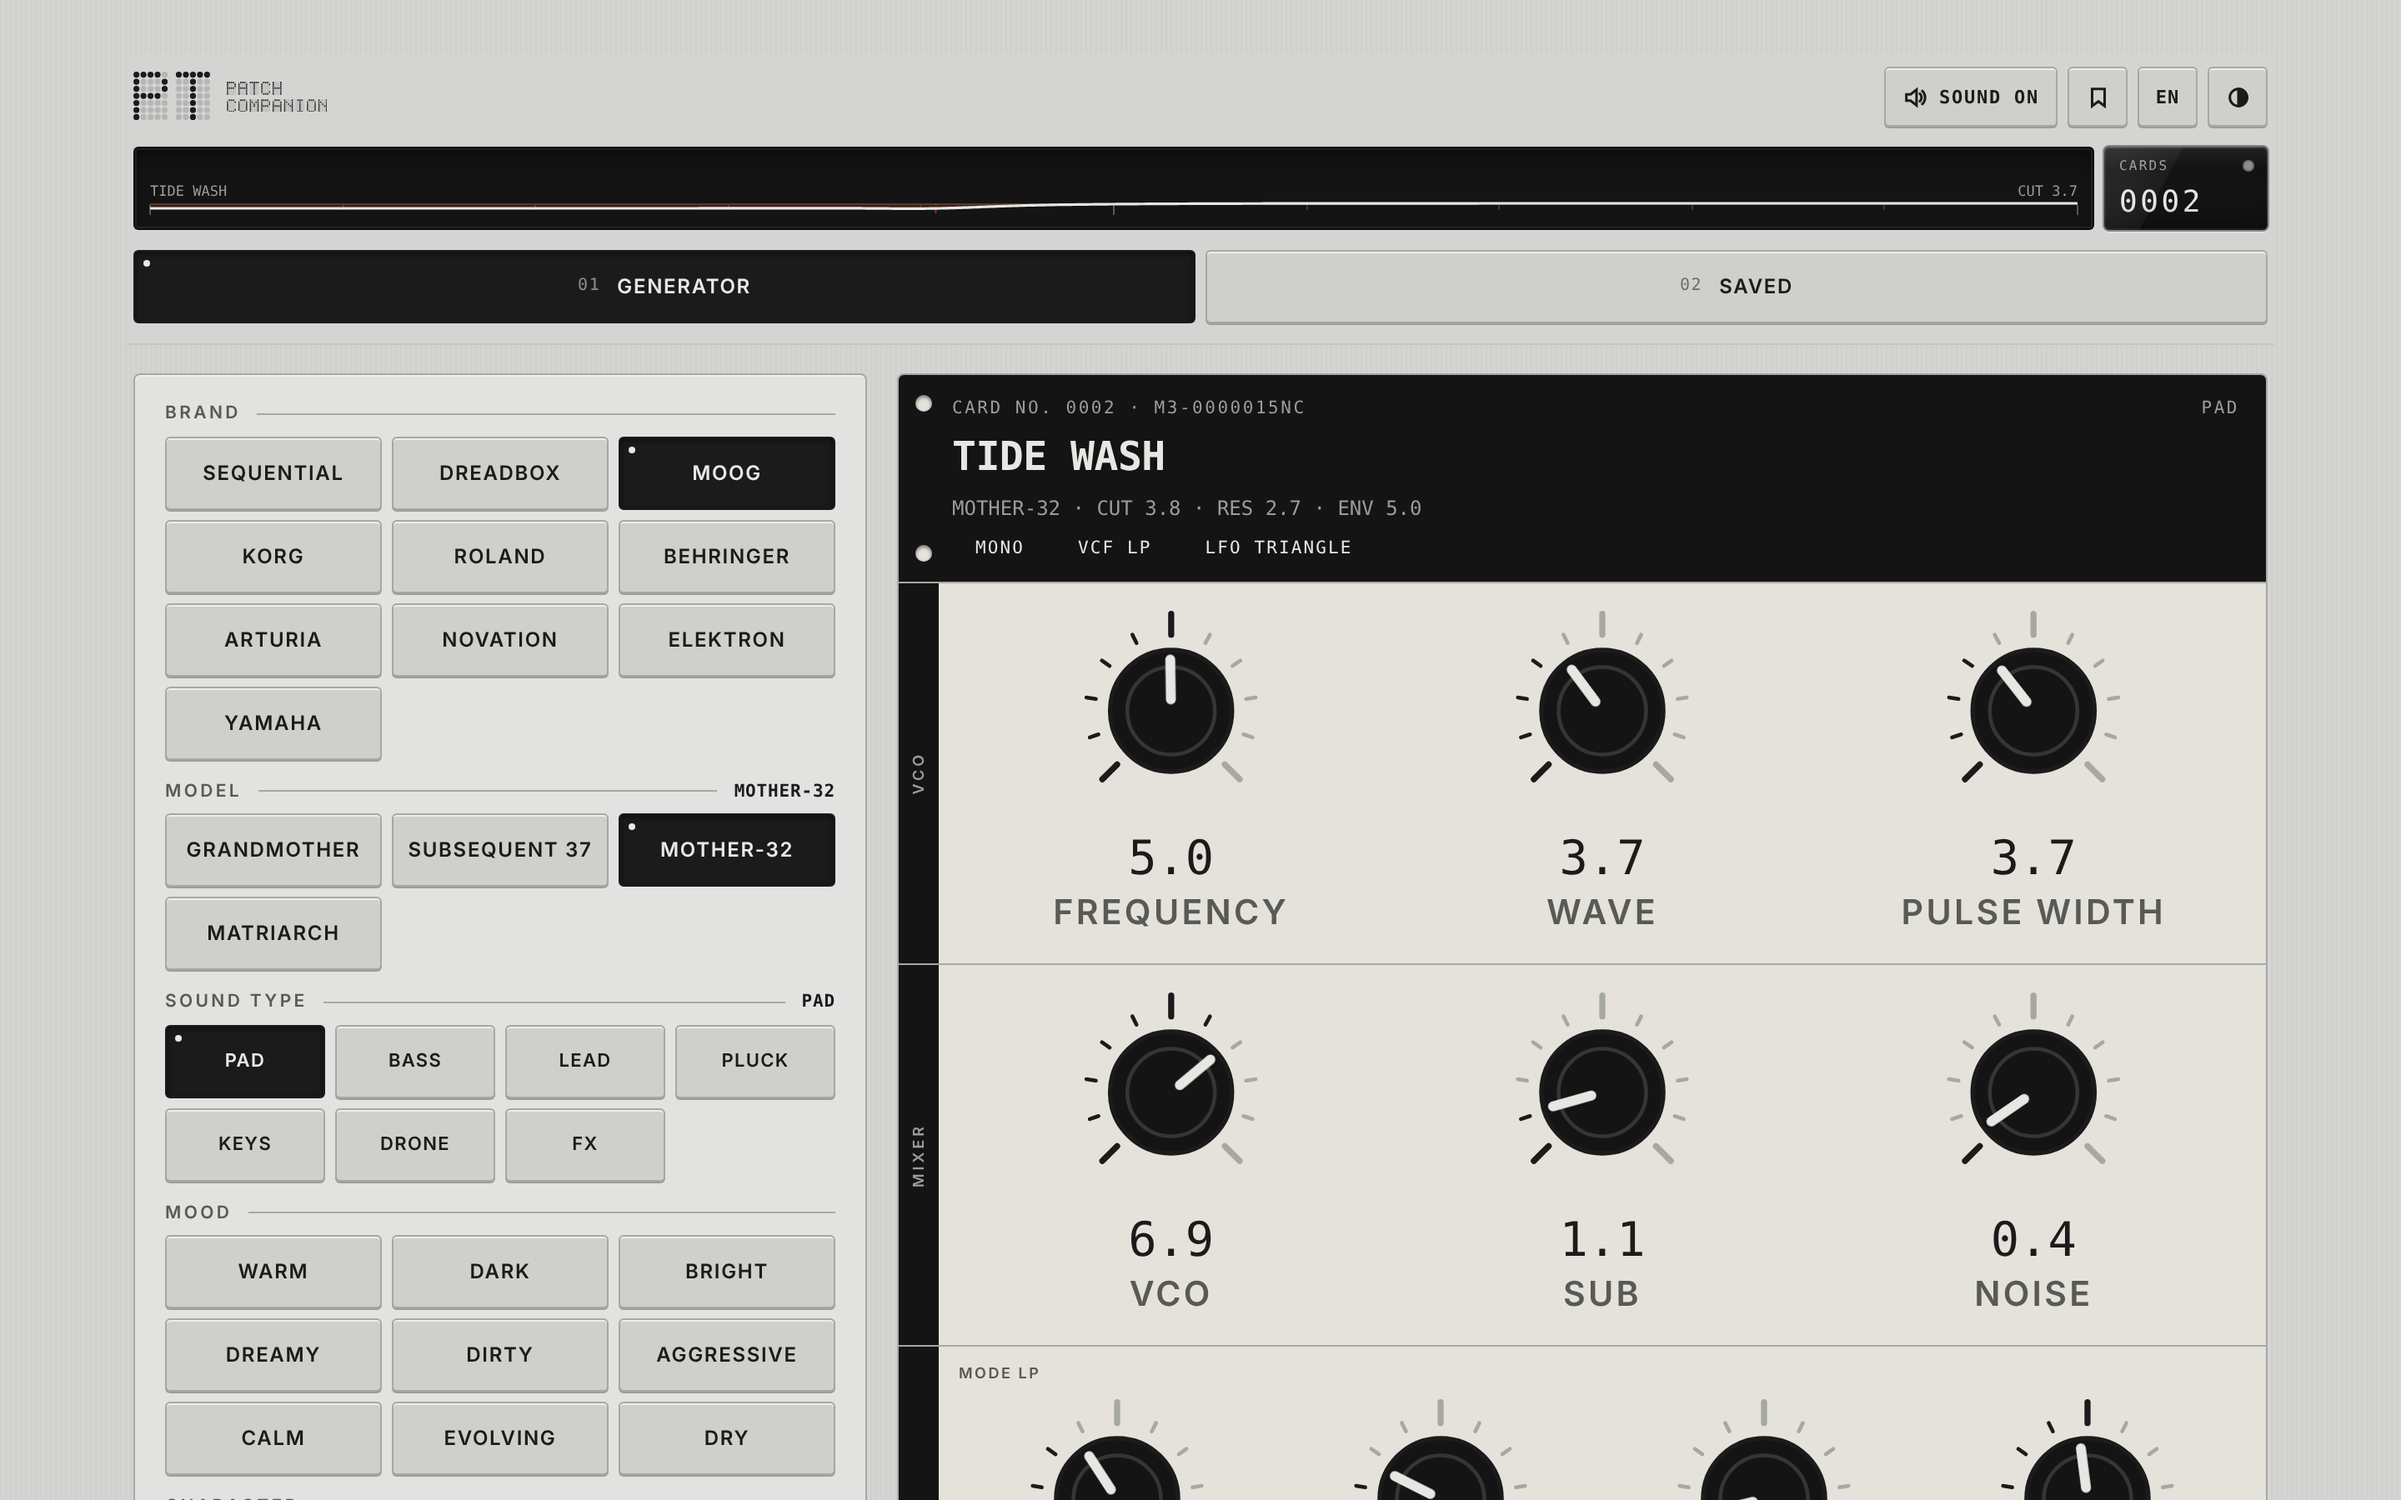
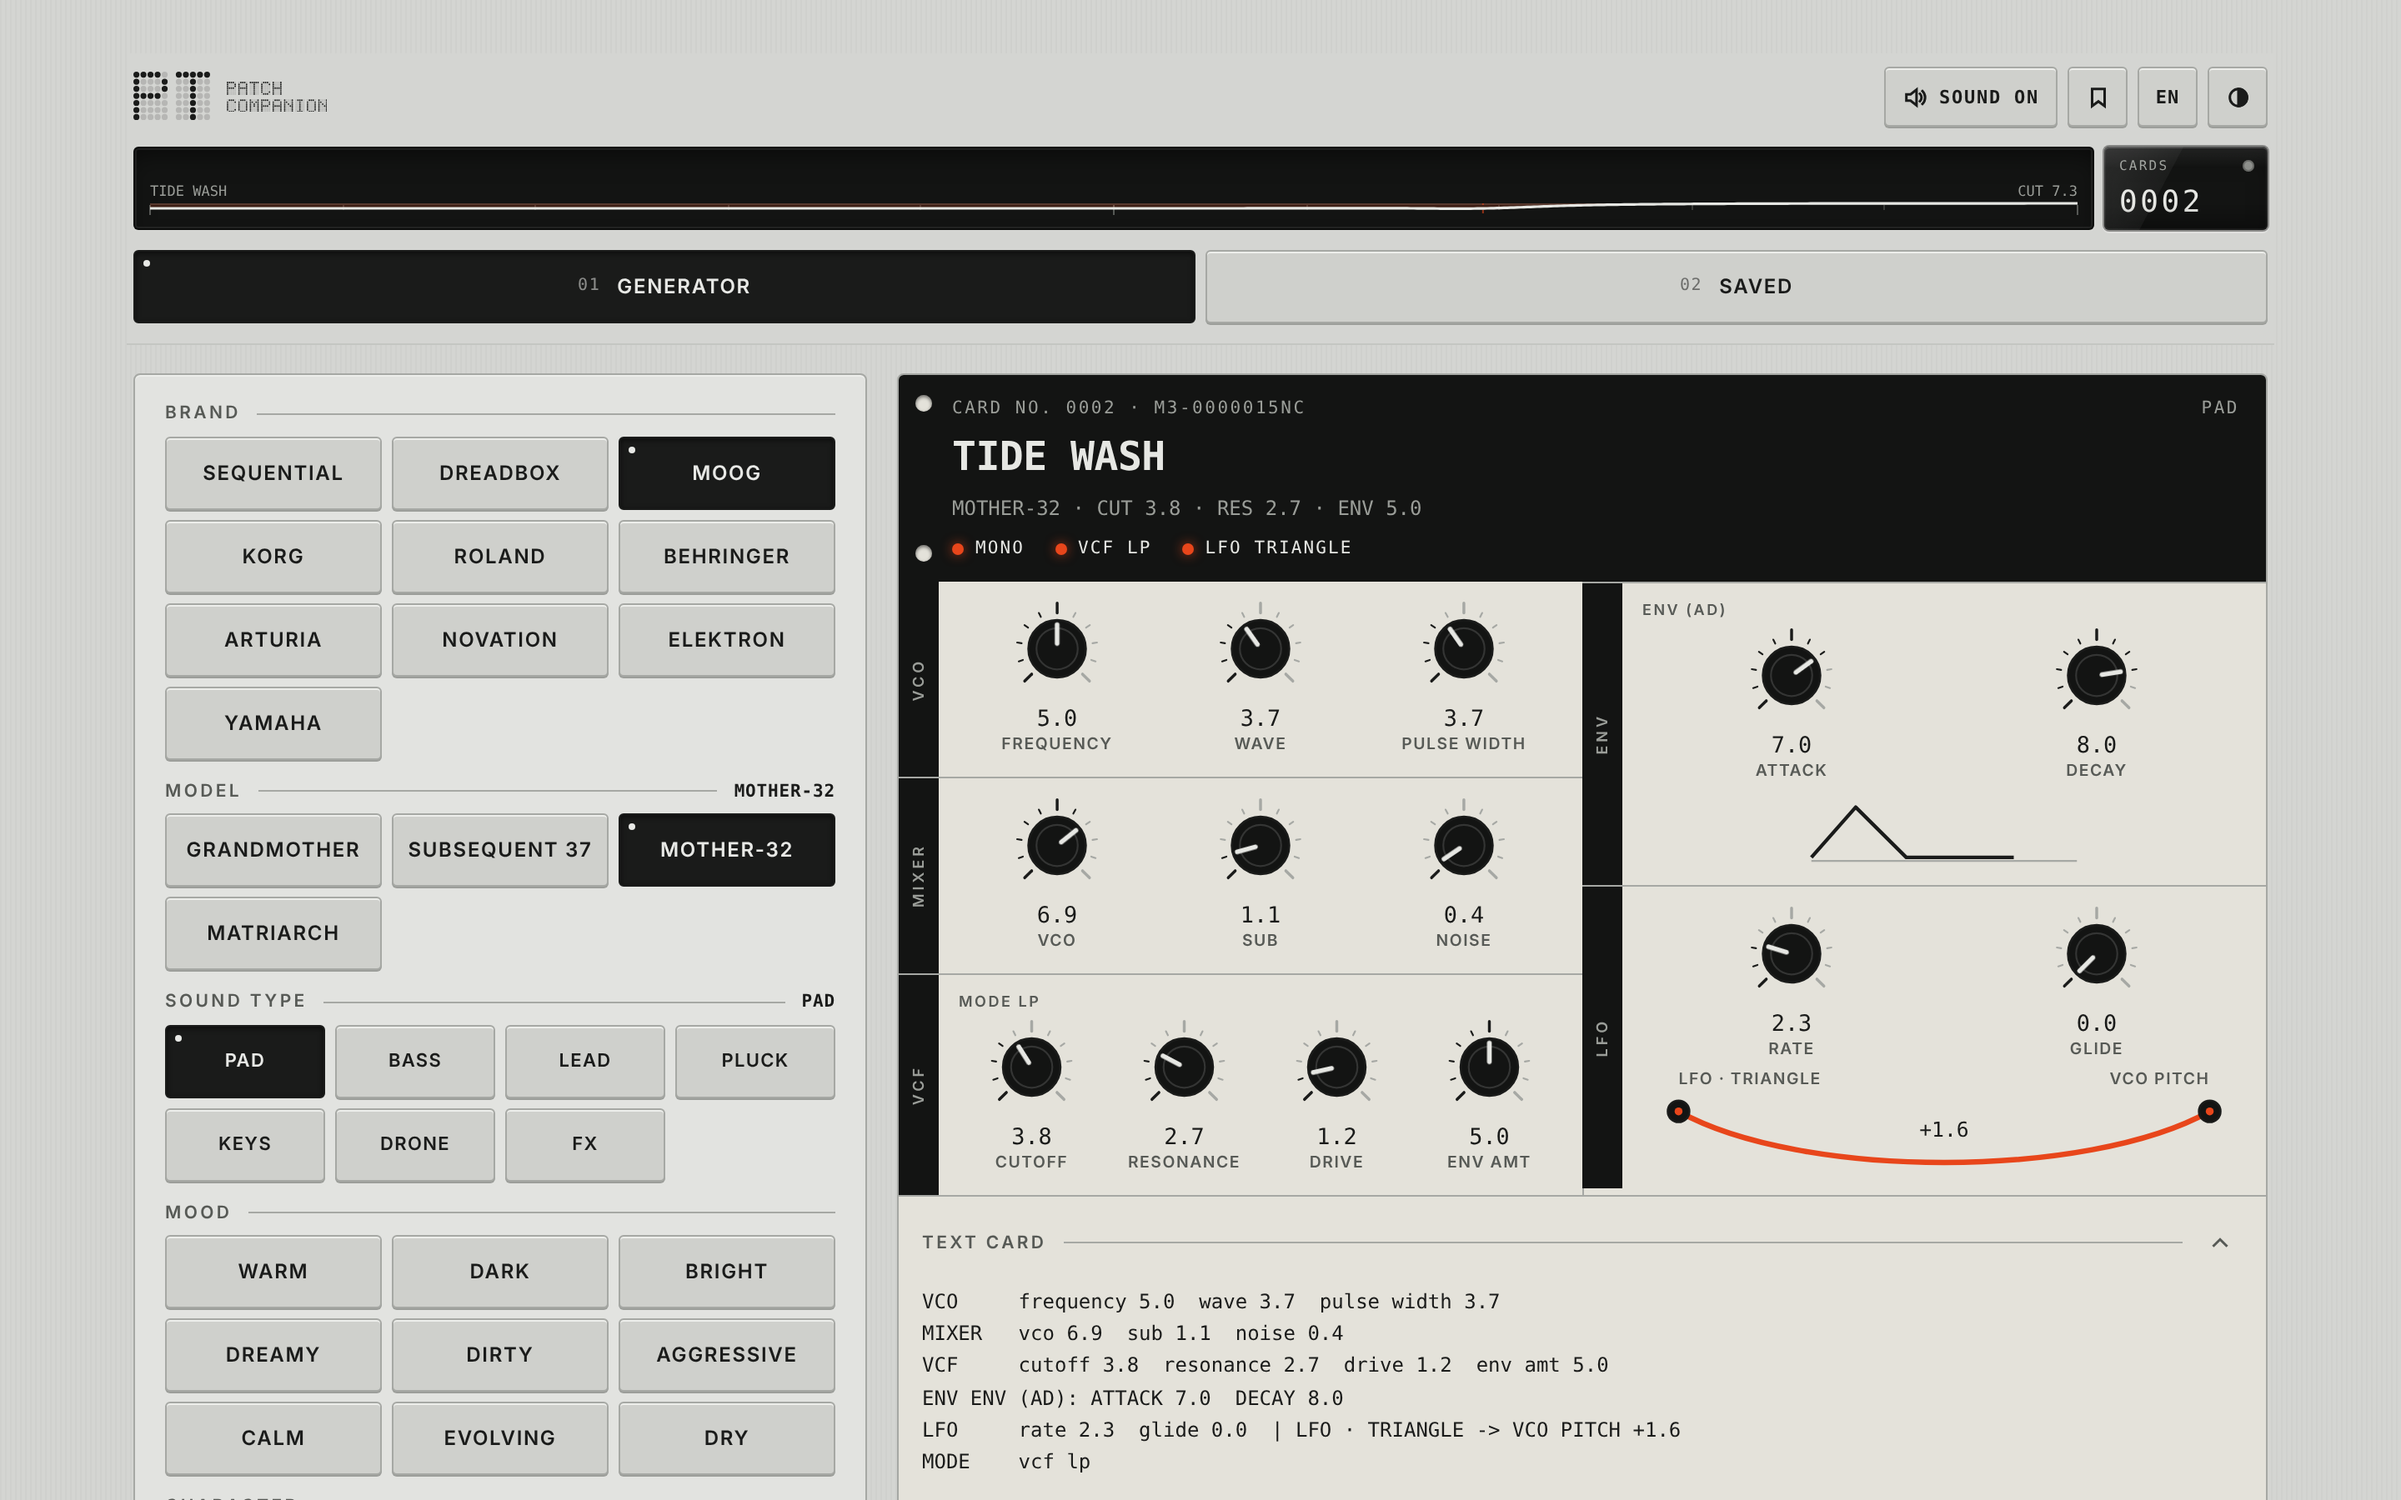
Add files via upload

diff --git a/index.html b/index.html
@@ -722,6 +722,13 @@ html:not([lang=ru]):not([lang=en]) .langmenu .key{font-size:13px;padding-left:10
 @keyframes kturn{from{transform:rotate(-135deg)}}
 .sheet.wr .ld.on i{animation:scFade .4s .5s both}
 @media (prefers-reduced-motion:reduce){.sheet.wr .kp,.sheet.wr .ld.on i{animation:none}}
+/* wide screens: rails flow into two columns, more of the card in view */
+#genOut{container-type:inline-size}
+@media screen{@container (min-width:640px){
+  .sheet .rails{column-count:2;column-gap:0;column-rule:1px solid var(--line)}
+  .sheet .rk{break-inside:avoid;-webkit-column-break-inside:avoid}
+  .sheet .rails .rk:first-child{border-top:0}
+}}
 @media print{html,body{height:auto!important;max-height:100mm;overflow:hidden!important}.dials{max-height:19mm;margin:0 auto}.rk{break-inside:avoid}.sheet{--pp:#fff;position:absolute}.sheet.tall{zoom:.72}.sheet-h,.rl{-webkit-print-color-adjust:exact;print-color-adjust:exact}}
 /* boot: the filter opens */
 .bt-sc{height:clamp(130px,24vh,200px)}
@@ -1797,7 +1804,7 @@ const t=k=>(TX[LANG][k]!=null?TX[LANG][k]:(TX.en[k]!=null?TX.en[k]:k));
 
 /* ---------- state ---------- */
 const MAXSEED=60466176;
-const state={mode:'gen',synth:'T5',genre:'pad',seed:1,opts:{brightness:5,movement:5,grit:5,space:5},pat:null,count:0,fold:{txt:false},lock:{osc:0,filt:0,env:0,lfo:0,fx:0},mamt:1};
+const state={mode:'gen',synth:'T5',genre:'pad',seed:1,opts:{brightness:5,movement:5,grit:5,space:5},pat:null,count:0,fold:{txt:(typeof matchMedia==='function'&&matchMedia('(min-width:700px)').matches)},lock:{osc:0,filt:0,env:0,lfo:0,fx:0},mamt:1};
 try{const j=JSON.parse(localStorage.getItem('pt-state')||'null');if(j){['genre','seed','synth'].forEach(k=>{if(j[k]!=null)state[k]=j[k]});Object.assign(state.opts,j.opts||{});state.count=j.count|0;if(j.lock)Object.keys(state.lock).forEach(k=>{state.lock[k]=j.lock[k]?1:0});if(j.mamt!=null)state.mamt=Math.min(2,Math.max(0,j.mamt|0));}}catch(e){}
 if(GENRES.indexOf(state.genre)<0)state.genre=GENRES[0];
 if(!SYN[state.synth])state.synth='T5';
@@ -1999,7 +2006,7 @@ function sheetHTML(p,anim){
     <div class="sub">${esc(V.sub)}</div>
     <div class="leds">${V.leds.map(([s,on])=>`<span class="ld${on?' on':''}"><i></i>${esc(s)}</span>`).join('')}${p.mut?`<span class="ld on"><i></i>${t('tg_mut')}</span>`:''}</div>
   </div>
-  ${V.rails.map(rail).join('\n  ')}
+  <div class="rails">${V.rails.map(rail).join('\n  ')}</div>
   ${fold('txt',t('s_text'),`<pre class="tx">${esc(gridText(p))}</pre>`)}
   <div class="acts">
     <button class="key" data-a="copy">${IC.copy}<span>${t('a_copy')}</span></button>

diff --git a/README.md b/README.md
@@ -17,6 +17,8 @@ It does not make sound and it is not an editor. It gives you a starting position
 - **Saved**: keep cards on the device and reload them later
 - **Installable**: add to the Home Screen and it works offline (PWA)
 
+On tablets and desktops the card spreads its rails over two columns and opens the text version below it, so the whole patch fits on one screen.
+
 Interface in RU / EN · light, grey and dark skins · scope-style boot screen · phone, tablet and desktop layouts.
 
 The values are starting points built from public panel specs, not measured against the real instruments. Your ears decide.
